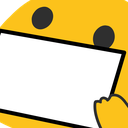
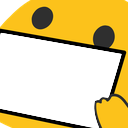
fix the height related things

diff --git a/index.html b/index.html
@@ -26,30 +26,45 @@
         }
         async function drawTextOnCanvas(text, canvas) {
             ctx = canvas.getContext('2d');
+            ctx.clearRect(0, 0, canvas.width, canvas.height);
             ctx.save();
             ctx.font = textsize + "pt Verdana";
             ctx.fillStyle = "black";
-            ctx.rotate(0.21);
+            ctx.rotate(0.195);
             ctx.textAlign = "center";
             let currentLine = 0;
             const totalLines = text.split("\n").length;
-            const topMargin = (72.0 - (totalLines * textsize * 1.25)) / 2 + 52.0;
-            text.split("\n").forEach((text) => { ctx.fillText(text, 60, topMargin + textsize * currentLine * 1.25); ++currentLine; } );
+            //const topMargin = (72.0 - (totalLines * textsize * 1.25)) / 2 + 52.0;
+    
+
+            console.log(totalLines)
+            var textHeight = 0
+            var heights = [0]
+            var ascents = []
+            text.split("\n").forEach((text) => { 
+                textHeight += (ctx.measureText(text).actualBoundingBoxAscent*1.1 + ctx.measureText(text).actualBoundingBoxDescent) 
+                heights.push(textHeight)
+                ascents.push(ctx.measureText(text).actualBoundingBoxAscent*1.1)
+            });
+            const topMargin = (68 - (textHeight)/2)  ;
+            text.split("\n").forEach((text) => { ctx.fillText(text, 60, topMargin + heights[currentLine] + ascents[currentLine] ); ++currentLine; } );
             ctx.restore();
         }
 
         async function textsizeupdate(e) {
             textsize = parseInt(e.value)
-            drawDataURIOnCanvas(canvas)
+            canvas.cle
             drawTextOnCanvas(text, canvas)
+            drawDataURIOnCanvas(canvas)
         }
         async function textupdate(e) {
             text = e.value
-            drawDataURIOnCanvas(canvas)
+            
             drawTextOnCanvas(text, canvas)
+            drawDataURIOnCanvas(canvas)
         }
         
-        drawTextOnCanvas("No", canvas)
+        drawTextOnCanvas("", canvas)
     </script> 
     
     
